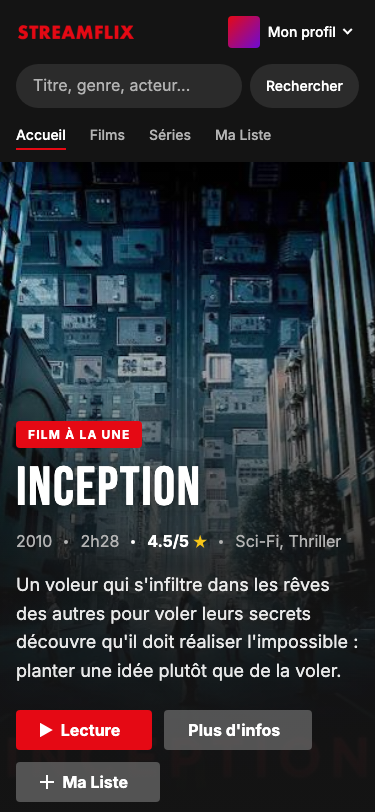
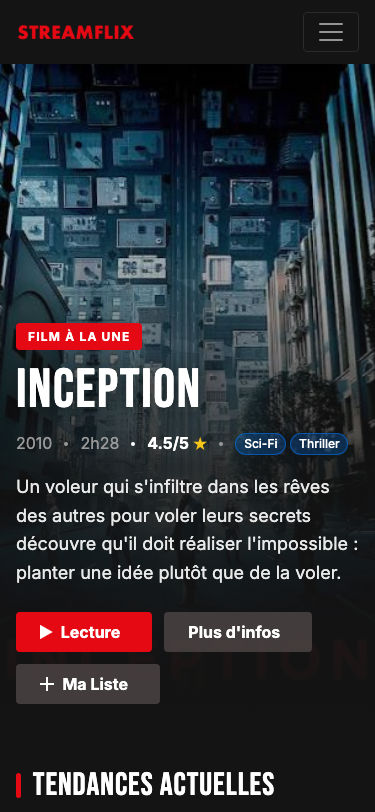
docs: README du projet et captures de la version Bootstrap + SASS

diff --git a/README.md b/README.md
@@ -1,2 +1,55 @@
-# streamflix
-projet scolaire
+# StreamFlix
+
+Plateforme de streaming fictive, réalisée dans le cadre du projet fil rouge (EFREI, conception et développement frontend).
+
+## Branches
+
+| Branche | Contenu |
+|---|---|
+| `main` | Version à jour |
+| `cssNatif` | Version en CSS natif (sans framework) |
+| `bootstrap-sass` | Migration vers Bootstrap 5.3 et SASS |
+
+## Installation
+
+Prérequis : [Node.js](https://nodejs.org/) (npm est inclus).
+
+```bash
+npm install      # installe le compilateur Sass (une seule fois)
+npm run dev      # recompile css/style.css à chaque sauvegarde d'un fichier .scss
+npm run build    # compile la version compressée, avec source map, pour la mise en ligne
+```
+
+Ouvrir ensuite `index.html` dans un navigateur, ou utiliser un serveur local (extension Live Server de VS Code, par exemple).
+
+> Ne jamais modifier `css/style.css` à la main : il est généré depuis `scss/` et serait écrasé à la prochaine compilation.
+
+## Technologies
+
+- **HTML5** sémantique et accessible (ARIA, navigation au clavier, validé W3C)
+- **Bootstrap 5.3.8**, chargé par CDN (CSS et JavaScript, avec vérification d'intégrité SRI)
+- **SASS**, en architecture 7-1, compilé par `npm run build` ou `npm run dev`
+
+Composants Bootstrap utilisés : navbar, collapse (menu hamburger), dropdown (menu profil), grille (`row` / `col-*`), cards, boutons, badges, modal, champs de formulaire.
+
+## Architecture SASS (7-1)
+
+```
+scss/
+├── utils/        variables (charte), fonctions, mixins : aucun CSS produit
+├── vendors/      personnalisation de Bootstrap (variables --bs-*)
+├── base/         reset, typographie, accessibilité, animations
+├── layout/       header, hero, footer
+├── components/   boutons, cartes, badges, navigation, recherche, formulaire, modal...
+├── pages/        mise en page de l'accueil
+├── themes/       thème sombre
+└── style.scss    point d'entrée
+```
+
+- **Charte graphique** : `scss/utils/_variables.scss`. Toutes les couleurs, polices et tailles y sont définies : modifier une valeur à cet endroit suffit à la changer sur tout le site.
+- **Personnaliser Bootstrap** : Bootstrap étant chargé par CDN, on ne recompile pas ses sources. On redéfinit ses variables CSS (`--bs-primary`, `--bs-body-color`, `--bs-btn-bg`...) à partir de nos variables SASS, dans `vendors/_bootstrap-custom.scss` et dans le partial de chaque composant.
+- **Media queries** : `@include respond-to(md) { ... }`, avec les mêmes points de rupture que Bootstrap (`sm`, `md`, `lg`, `xl`, `xxl`).
+
+## Captures
+
+Voir [docs/captures](docs/captures/README.md) : rendu sur mobile, tablette et desktop.

diff --git a/docs/captures/README.md b/docs/captures/README.md
@@ -1,6 +1,6 @@
 # Captures du design responsive
 
-Tests du design de StreamFlix sur 3 tailles d'écran (branche `cssNatif`).
+Version **Bootstrap 5 + SASS** (branche `bootstrap-sass`). La version en CSS natif reste disponible sur la branche `cssNatif`.
 
 | Appareil | Largeur | Premier écran | Page complète |
 |---|---|---|---|
@@ -8,15 +8,23 @@ Tests du design de StreamFlix sur 3 tailles d'écran (branche `cssNatif`).
 | Tablette | 768px | [2-tablette-768-accueil.png](2-tablette-768-accueil.png) | [2-tablette-768-page-complete.png](2-tablette-768-page-complete.png) |
 | Desktop | 1280px | [3-desktop-1280-accueil.png](3-desktop-1280-accueil.png) | [3-desktop-1280-page-complete.png](3-desktop-1280-page-complete.png) |
 
+Composants interactifs :
+
+- [4-mobile-375-menu-ouvert.png](4-mobile-375-menu-ouvert.png) : menu hamburger (collapse Bootstrap) ouvert sur mobile
+- [5-desktop-1280-modal.png](5-desktop-1280-modal.png) : fenêtre « Plus d'infos » (modal Bootstrap)
+
 ## Conditions de test
 
 - Navigateur : Google Chrome, avec émulation de la taille d'écran (mode mobile activé pour 375px).
 - Aucun débordement horizontal sur les 3 tailles : la largeur de la page est égale à celle de l'écran.
-- Navigation au clavier vérifiée (touche Tab) : lien d'évitement, navigation, menu profil, cartes de films.
-- Préférence système « réduire les animations » vérifiée : les animations sont coupées et tout le contenu reste visible.
+- Survol testé avec une vraie souris sur les 17 éléments interactifs : tous réagissent.
+- Navigation au clavier : lien d'évitement, navbar, menu profil, cartes de films, modal (focus placé dans la fenêtre, touche Échap, focus rendu au bouton).
+- Préférence système « réduire les animations » : les animations sont coupées et tout le contenu reste visible.
 
 ## Ce qui change selon la taille
 
-- **Mobile** : header sur 3 lignes, hero avec l'affiche en fond, grilles de films en carrousels horizontaux.
-- **Tablette** : header collé en haut sur 2 lignes, hero avec fond flouté et affiche à droite, grilles de 3 colonnes, formulaire sur 2 colonnes.
-- **Desktop** : header sur une ligne, grilles adaptatives (autant de colonnes que la largeur le permet).
+Les points de rupture sont ceux de Bootstrap : `md` (768px) et `lg` (992px).
+
+- **Mobile** : menu hamburger, hero avec l'affiche en fond, grilles de films en carrousels horizontaux (`col-5`).
+- **Tablette** (`md`) : hero avec fond flouté et affiche à droite, grilles de 3 colonnes (`col-sm-4`), formulaire sur 2 colonnes.
+- **Desktop** (`lg`) : navbar dépliée sur une ligne, grilles de 4 colonnes (`col-lg-3`), 6 genres par ligne dans le formulaire.
